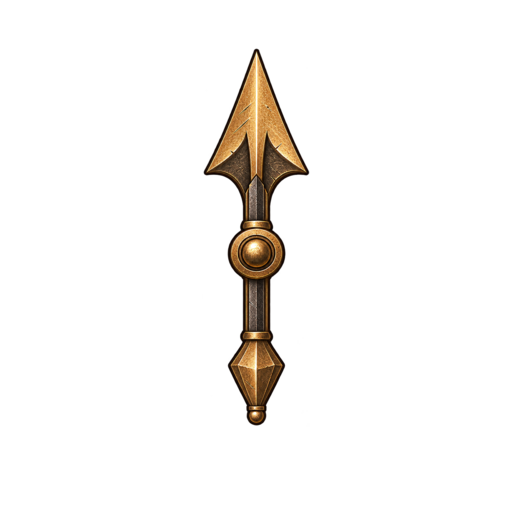
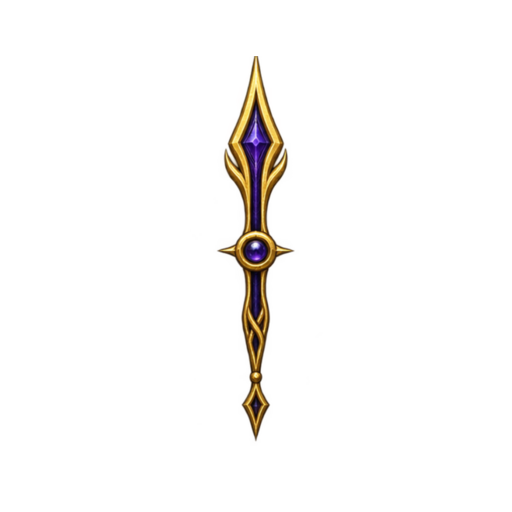
Give Rune Compass skins distinct visual identities

Changed region(s): [[0.375, 0.0938, 0.625, 0.8438]]

diff --git a/RuneCompass/Assets/Skins/README.md b/RuneCompass/Assets/Skins/README.md
@@ -21,10 +21,10 @@ A skin supplies artwork for these roles. It never decides which of them rotate. 
 and wind each receive one absolute-bearing transform; that is a behavioural invariant,
 not a presentation choice.
 
-The heading pointer is intentionally the dominant indicator: warm, solid, 379 pixels tall
-on the shared authoring canvas, with a broad tip and central boss. Wind uses a slimmer
-feather, spear, or arrow silhouette and renders beneath heading. Shape, mass, layer order,
-and material distinguish the signals before colour does.
+The heading pointer is intentionally the dominant indicator. Wind uses a slimmer feather,
+wisp, vane, or hairline-arrow silhouette and renders beneath heading. Shape, mass, layer
+order, and material distinguish the signals before colour does. Across the prepared skins,
+heading carries 2.75x to 11.02x the opaque mass of wind.
 
 Prepared skins contain:
 
@@ -38,20 +38,20 @@ Prepared skins contain:
 └── skin.json
 ```
 
-Not every texture is mandatory. A skin definition declares only the layers it uses.
-The original three bundles retain baked cardinal art. The three follow-up bundles use
-letterless rings and therefore require runtime cardinal glyphs when they are bound.
+Not every texture is mandatory. A skin definition declares only the layers it uses. Every
+prepared ring includes baked cardinal art, so a skin can be bound without a second glyph
+system or a font dependency.
 
 ## Prepared families
 
 | Family | State | Visual language |
 |---|---|---|
 | `ClassicWood` | prepared, not yet bound | warm dark wood, aged brass, restrained cardinal ring |
-| `RuneRing` | prepared, not yet bound | darker forged metal, amber rune engraving |
-| `MinimalNordic` | prepared, not yet bound | compact fallback with minimal ornament and a teal wind spear |
-| `KnotworkWood` | prepared, not yet bound | deeply carved timber, bright aged brass, blue-steel feather spear |
-| `BlackIron` | prepared, not yet bound | dark timber, riveted iron, restrained copper wind arrow |
-| `GildedSigil` | prepared, not yet bound | ornate amber runes and a subdued open-work mystic sigil |
+| `RuneRing` | prepared, not yet bound | black basalt, ember runes, bronze rune-blade heading, icy wind wisp |
+| `MinimalNordic` | prepared, not yet bound | negative space, broken iron line, ivory lozenge heading, hairline teal wind |
+| `KnotworkWood` | prepared, not yet bound | pale ash, braided iron and leather, antler heading, blue-green feather wind |
+| `BlackIron` | prepared, not yet bound | soot-dark hide, riveted forge iron, bone spear heading, rust-copper wind vane |
+| `GildedSigil` | prepared, not yet bound | indigo mystic face, open-work gold, ceremonial heading lance, cyan wind crescent |
 
 Every prepared PNG is a centered `512 x 512` RGBA canvas. That shared canvas is the
 alignment contract: both pointers rotate around `(0.5, 0.5)`, while the base, ring, and

diff --git a/RuneCompass/STATUS.md b/RuneCompass/STATUS.md
@@ -11,10 +11,31 @@ replaces in No Map play. Previously it sat top-centre.
 
 Issue #4 stays **open** until the operator acceptance items are recorded.
 
-All six prepared skins now include a dedicated `heading_pointer.png`. The heading needle
-is a broad warm-metal layer rendered above the slimmer wind pointer; measured opaque mass
-ranges from 1.50x to 3.89x the corresponding wind asset. Runtime loading is implemented on
-this branch, but the new art still requires the normal local rebuild and in-game review.
+All six prepared skins now include a dedicated `heading_pointer.png`. ClassicWood remains
+the grounded dark-oak and brass baseline. The other five families were rebuilt around
+different materials, silhouettes, negative space, and pointer languages instead of
+recolouring the same disc. Heading renders above wind and now measures 2.75x to 11.02x the
+corresponding wind asset's opaque mass in the rebuilt families. Runtime loading is
+implemented on this branch, but the replacement art still requires the normal local
+rebuild and in-game review.
+
+## Visual differentiation pass
+
+Recorded 2026-09-09. This pass changes assets and skin metadata only; bearing math and
+gameplay behaviour are untouched.
+
+| Family | Distinct construction | Primary heading | Secondary wind |
+|---|---|---|---|
+| `ClassicWood` | dark oak and aged brass | broad brass needle | dark feather-spear |
+| `RuneRing` | basalt and ember-cut runes | bronze rune-blade | icy wisp |
+| `MinimalNordic` | open centre and broken iron line | ivory lozenge with ochre north tip | hairline teal arrow |
+| `KnotworkWood` | pale ash, braided iron and leather | antler spear | blue-green feather |
+| `BlackIron` | soot-dark hide and riveted forge iron | bone spear | rust-copper vane |
+| `GildedSigil` | indigo face and open-work gold | violet-inlaid ceremonial lance | cyan crescent |
+
+Every replacement layer is a centred `512 x 512` RGBA PNG with transparent corners.
+Cardinal letters are baked into each fixed north-up ring. Visual review has been performed
+at the approximate shipped HUD size; local compile and in-game review remain pending.
 
 ## What is verified
 

diff --git a/RuneCompass/README.md b/RuneCompass/README.md
@@ -143,12 +143,12 @@ broader, warmer, more opaque silhouette so player direction remains primary.
 
 Prepared skin families:
 
-1. **Classic Wood**: carved wooden face, restrained metal framing, simple pointer.
-2. **Rune Ring**: darker runic ring treatment with stronger Norse ornament.
-3. **Minimal Nordic**: compact, highly readable treatment for players who want less HUD weight.
-4. **Knotwork Wood**: carved timber and aged brass with a blue-steel feather wind pointer.
-5. **Black Iron**: dark timber and riveted iron with restrained copper accents.
-6. **Gilded Sigil**: ornate amber runes over a subdued open-work sigil.
+1. **Classic Wood**: dark oak, aged brass, a broad brass heading needle and feather wind.
+2. **Rune Ring**: black basalt, ember-cut runes, a bronze rune-blade and icy wind wisp.
+3. **Minimal Nordic**: negative space, a broken iron line, an ivory heading lozenge and hairline teal wind.
+4. **Knotwork Wood**: pale ash, braided iron and leather, an antler heading spear and blue-green feather wind.
+5. **Black Iron**: soot-dark hide, riveted forge iron, a bone heading spear and rust-copper wind vane.
+6. **Gilded Sigil**: an indigo mystic face, open-work gold, a ceremonial heading lance and cyan wind crescent.
 
 Existing compass concept art should be curated into these roles rather than copied wholesale into every skin.
 
